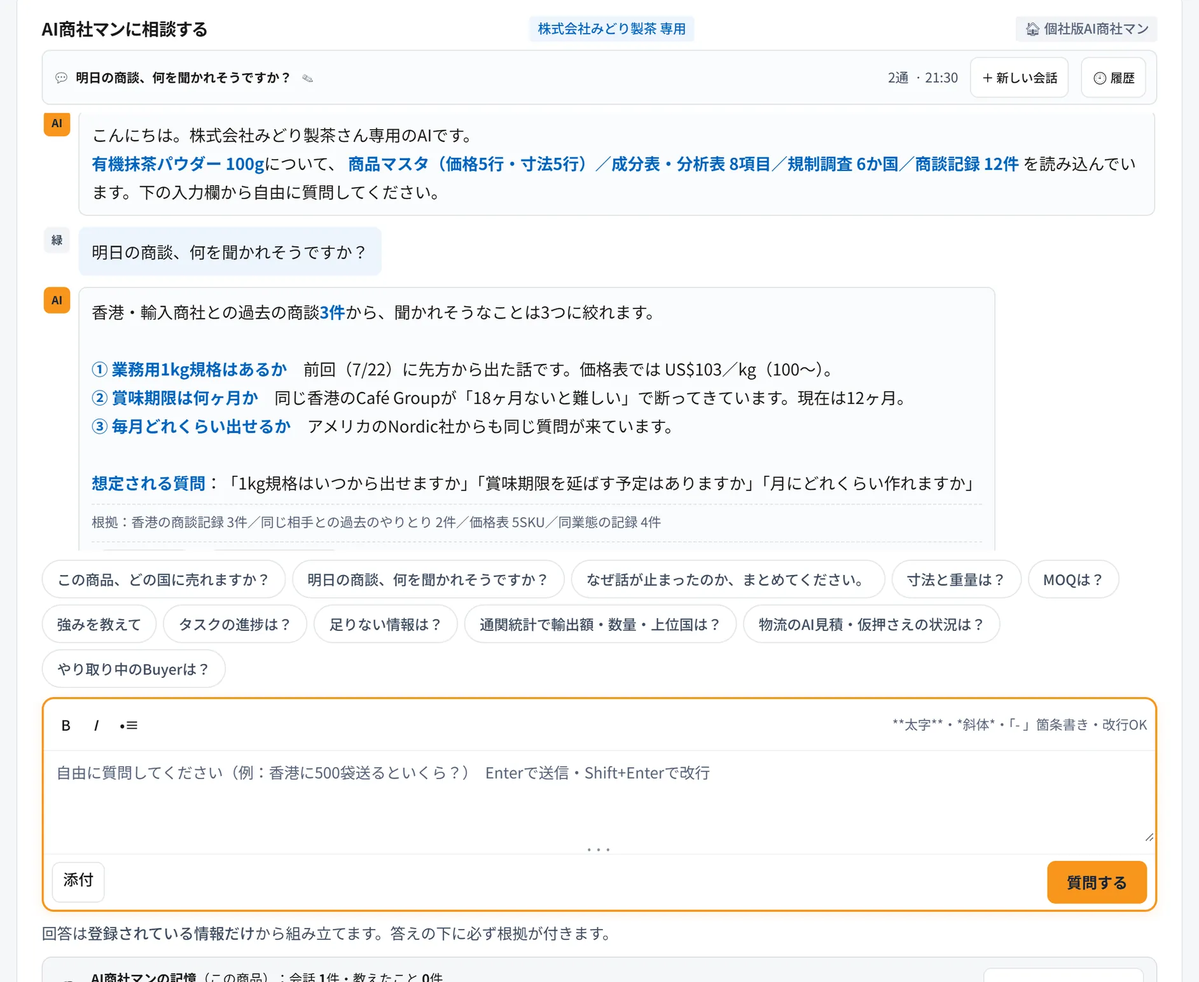
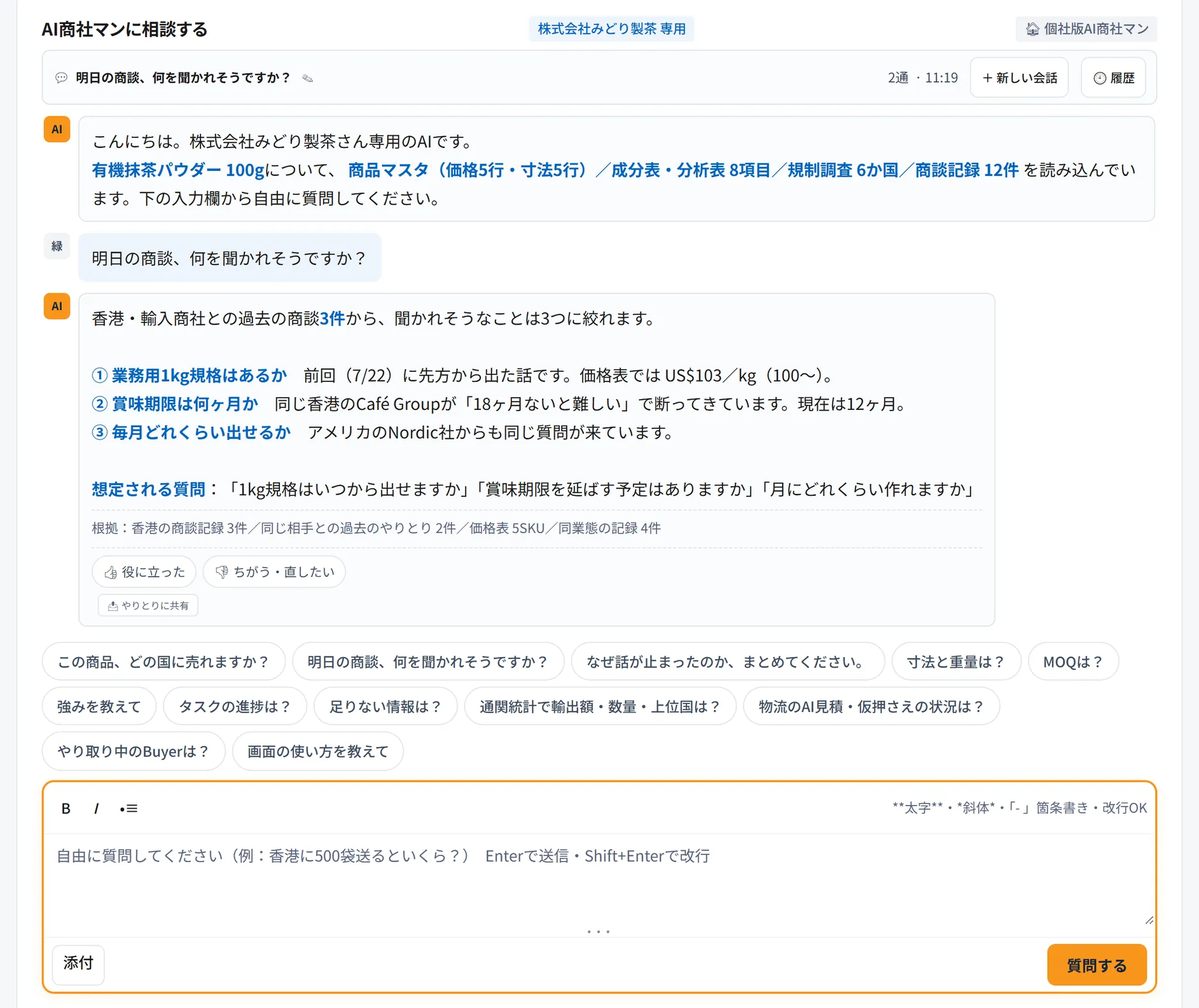
はじめてガイド（guide/）を Ver.3.8 に：AI商社マン・AI物流マンへの画面の使い方の聞き方を足した（アプリ本体は v21.50.1 のまま）

diff --git a/guide/index.html b/guide/index.html
@@ -1750,6 +1750,9 @@ button {
 .m-print .tv-view {
   background: #EEF2F7;
 }
+.m-print .tv-view {
+  contain: strict;
+}
 .m-print .tv-ring {
   display: none;
 }
@@ -4742,7 +4745,7 @@ button {
       <li data-k="1:1"><b>何でも検索（Ctrl+K）</b>：画面・商品・バイヤー・書類・タスクへ移動<span class="sc">画面2</span></li>
       <li data-k="0:6"><b>表示の言語</b>：日本語・English・中文・Español</li>
       <li data-k="2:1"><b>？（ヘルプ）</b>：画面の使い方・<b>お問い合わせ</b>・<b>📰 新機能と改善</b><span class="sc">画面3</span></li>
-      <li data-k="0:8"><b>右下の「AIに質問」</b>：どの画面からでもAI商社マンに聞けます</li>
+      <li data-k="0:8"><b>右下の「AIに質問」</b>：どの画面からでもAI商社マンに聞けます（画面の<b>使い方</b>も）</li>
     </ol>
     <div class="op-foot">
       <div class="op-box op-why"><span class="bi"><svg><use href="#i-target"/></svg></span><h4>覚えておくと</h4><p>🔔が鳴るのは承認・返信・期限切れなど急ぎのものだけ。ほかは<b>受信箱</b>の「今日のまとめ」に1日1回届きます。点線の下線の言葉と<b>状態の札</b>は、マウスを重ねると説明が出ます。</p></div>
@@ -4808,7 +4811,7 @@ button {
     <p class="op-lead">資料を入れるだけで、AIが中身を読み取って登録します。足りない情報は、AIが順に質問してきます（次のページ）。</p>
     <ol class="op-steps">
       <li data-k="1:1"><b>「新しい会社の商品を登録する」</b>を選択（同じ会社の別商品は「既存の会社に新しい商品を登録する」）<span class="sc">画面2</span></li>
-      <li data-k="0:2">資料を<b>ドラッグ＆ドロップ</b>。Google Drive・OneDriveは<b>URLを貼って「取り込む」</b></li>
+      <li data-k="0:2">資料を<b>ドラッグ＆ドロップ</b>。Googleドキュメント・スプレッドシート・スライドとOneDriveは<b>URLを貼って「取り込む」</b></li>
     </ol>
     <div class="feat">
       <span class="rib"><svg><use href="#i-spark"/></svg>注目の機能</span>
@@ -5337,7 +5340,7 @@ button {
   <div class="s-foot"><span class="src">画面は架空の会社「株式会社みどり製茶」の例です</span><span class="pg"></span></div>
 </section>
 <section class="slide op" id="s28" data-title="㉕ AI商社マンに聞く" data-sec="操作ガイド：AI商社マン・スマホ">
-  <div class="op-shot"><div class="tour" data-tour="sc_ai,sc_ai2" data-pip="rb" data-path="左メニュー › 自走する › <b>AI商社マン</b>（画面の右下の「AIに質問」からも）"></div></div>
+  <div class="op-shot"><div class="tour" data-tour="sc_ai,sc_aihow,sc_ai2" data-pip="tl,rb" data-path="ガイドバー › <b>AI商社マンに聞く</b>（画面の右下の「AIに質問」からも）"></div></div>
   <div class="op-side">
     <div class="op-eye"><b>25</b>操作ガイド</div>
     <h2 class="op-title">AI商社マンに聞く</h2>
@@ -5346,18 +5349,19 @@ button {
       <li data-k="0:1"><b>貴社専用（個社版）</b>のAIです。他社のデータは混ざりません</li>
       <li data-k="0:3">答えには<b>根拠</b>（何件の記録から出したか）が付きます</li>
       <li data-k="0:4">違っていたら<b>「👎 ちがう・直したい」</b>。正しい内容を教えると、次から優先して使います</li>
-      <li data-k="0:6">質問の例を押すか、入力欄から自由に質問。<b>ファイルを添付</b>しても聞けます</li>
-      <li data-k="0:7"><b>「＋ 新しい会話」</b>で話題を分け、<b>「履歴」</b>で前の会話の続きから聞けます</li>
-      <li data-k="1:1">AIの接続時は、文ごとに<b>根拠の番号</b>が付きます<span class="sc">画面2</span></li>
-      <li data-k="1:2">答えの下の<b>「調べた手順」</b>は畳んであります。開くか番号を押すと、番号ごとの出どころ（貴社の登録データ・公的データ など）が分かります</li>
-      <li data-k="1:3"><b>「✓ STANDAGE 確認済み」</b>はSTANDAGEが出典を確かめた知識。根拠が無ければ<b>「判断できません」</b>と答えます</li>
+      <li data-k="0:6">質問の例を押すか、自由に質問。<b>ファイルの添付</b>もできます</li>
+      <li data-k="0:7"><b>「＋ 新しい会話」</b>で話題を分け、<b>「履歴」</b>で続きから</li>
+      <li data-k="1:3"><b>画面の使い方</b>も聞けます（例：バイヤーを登録するには？／使い方を教えて）。ボタンで<b>その画面が開きます</b><span class="sc">画面2</span></li>
+      <li data-k="2:1">AIの接続時は、文ごとに<b>根拠の番号</b>が付きます<span class="sc">画面3</span></li>
+      <li data-k="2:2">番号を押すか<b>「調べた手順」</b>を開くと、出どころ（貴社の登録データ・公的データ など）が分かります</li>
+      <li data-k="2:3"><b>「✓ STANDAGE 確認済み」</b>はSTANDAGEが出典を確かめた知識。根拠が無ければ<b>「判断できません」</b>と答えます</li>
     </ol>
     <div class="op-foot">
       <div class="op-box op-out"><span class="bi"><svg><use href="#i-chat"/></svg></span><h4>できあがるもの</h4><p>根拠つきの回答（商談の準備・止まった理由・次の一手）</p></div>
       <div class="op-box op-why"><span class="bi"><svg><use href="#i-target"/></svg></span><h4>貿易の成功にどう効くか</h4><p>商談の前に「聞かれそうなこと」を準備でき、社内の誰でも同じ水準で答えられるようになります。</p></div>
     </div>
   </div>
-  <div class="s-foot"><span class="src">画面は架空の会社「株式会社みどり製茶」の例です。画面2の答えは、AI接続時の表示例です</span><span class="pg"></span></div>
+  <div class="s-foot"><span class="src">画面は架空の会社「株式会社みどり製茶」の例です。画面3の答えは、AI接続時の表示例です</span><span class="pg"></span></div>
 </section>
 <section class="slide op" id="s29" data-title="㉖ AI商社マンを育てる">
   <div class="op-shot"><div class="tour" data-tour="sc_grow" data-path="AI商社マン › <b>成長レベル</b>"></div></div>
@@ -5503,11 +5507,12 @@ button {
       <div class="qa"><button type="button" aria-expanded="false"><span class="q">Q</span><b>別のPCやスマホでも同じ内容が見られますか？</b><i></i></button><div class="a"><div><p>はい。同じアクセスコードで、PC・ブラウザ・スマホのどれからでも同じ内容が使えます。同時にログインできるのは<b>PC1台＋スマホ1台</b>までです。</p></div></div></div>
       <div class="qa"><button type="button" aria-expanded="false"><span class="q">Q</span><b>タブを閉じると、どうなりますか？</b><i></i></button><div class="a"><div><p>安全のため、<b>タブ（ブラウザ）を閉じるとログアウト</b>します。最後の操作から<b>3時間</b>たったときも自動でログアウトします（5分前にお知らせ）。もう一度ログインすると、<b>前回の画面</b>から始まります。</p></div></div></div>
       <div class="qa"><button type="button" aria-expanded="false"><span class="q">Q</span><b>入力した情報は、他社に見られませんか？</b><i></i></button><div class="a"><div><p>個社版のAI商社マンは、<b>貴社のデータだけ</b>を見ます（他社のデータは混ざりません）。商品データと書類は端末で暗号化してから保存・同期されます。やりとりは「社内のみ」「共有」、書類とメモは「自分だけ」も選べます。</p></div></div></div>
-      <div class="qa"><button type="button" aria-expanded="false"><span class="q">Q</span><b>資料が読み込めません</b><i></i></button><div class="a"><div><p>対応形式は Excel・CSV・Word・PowerPoint・PDF・画像（PNG/JPEG）・Zip です。Googleドキュメントなどは<b>URLから取り込めます</b>。PDF・画像の高精度な読み取りは、AI接続時に使えます。</p></div></div></div>
+      <div class="qa"><button type="button" aria-expanded="false"><span class="q">Q</span><b>資料が読み込めません</b><i></i></button><div class="a"><div><p>対応形式は Excel・CSV・Word・PowerPoint・PDF・画像（PNG/JPEG）・Zip です。Googleドキュメント・スプレッドシート・スライドとOneDriveは<b>URLから取り込めます</b>。Googleドライブのファイル・フォルダは、ダウンロードしてからアップロードしてください。PDF・画像の高精度な読み取りは、AI接続時に使えます。</p></div></div></div>
       <div class="qa"><button type="button" aria-expanded="false"><span class="q">Q</span><b>営業資料の作成ボタンが押せません（🔒）</b><i></i></button><div class="a"><div><p>納品レベルチェックの<b>必須項目</b>（ロゴ・会社概要・沿革・理念・写真3枚・連絡先など）がそろうと作れます（料金プランとは関係ありません）。「AI商社マンと埋める」から入力してください。<button type="button" data-go="s15">P.15</button></p></div></div></div>
       <div class="qa"><button type="button" aria-expanded="false"><span class="q">Q</span><b>登録した内容を直したい</b><i></i></button><div class="a"><div><p>商品情報の各カードの<b>✎</b>で直せます。AIの質問に答えている途中なら「商品名を〇〇に変更して」と入力してもかまいません。AIの答えが違うときは<b>👎</b>で正しい内容を教えてください。間違えて消したものは、<b>チーム › ゴミ箱</b>から30日以内なら元に戻せます。<button type="button" data-go="s27f">P.32</button></p></div></div></div>
       <div class="qa"><button type="button" aria-expanded="false"><span class="q">Q</span><b>海外拠点に頼むと、費用はかかりますか？</b><i></i></button><div class="a"><div><p><b>「つなぐ依頼」（STANDAGEがご紹介）は無料</b>です（1か月20件まで）。<b>現地の担当に商談まで任せる場合と「拠点に依頼」は別途費用</b>がかかります。依頼の前に、担当へご確認ください。</p></div></div></div>
       <div class="qa"><button type="button" aria-expanded="false"><span class="q">Q</span><b>画面の言葉が難しいです</b><i></i></button><div class="a"><div><p><b>点線の下線</b>が付いた言葉にマウスを重ねると、貿易用語の説明が出ます。表示の言語は、日本語・English・中文・Español から選べます。<button type="button" data-go="s05">用語集 P.05</button></p></div></div></div>
+      <div class="qa"><button type="button" aria-expanded="false"><span class="q">Q</span><b>操作のしかたが分かりません</b><i></i></button><div class="a"><div><p>見出しの横の<b>「使い方を見る」</b>で、このガイドのその画面の説明が開きます。<b>AI商社マン</b>に「バイヤーを登録するには？」のように聞くと、手順と、その画面を開くボタンで答えます（「使い方を教えて」で一覧）。<button type="button" data-go="s28">P.33</button></p></div></div></div>
       <div class="qa"><button type="button" aria-expanded="false"><span class="q">Q</span><b>何から手をつければいいか分かりません</b><i></i></button><div class="a"><div><p>まず<b>受信箱</b>を開くと、確認待ち・返事・期限の近いものが上から並びます。画面上部の<b>オレンジのバー</b>と「今日やること」も「次にやること」を教えてくれます。<button type="button" data-go="s08">30日の進め方 P.08</button></p></div></div></div>
       <div class="qa"><button type="button" aria-expanded="false"><span class="q">Q</span><b>書類やファイルはどこにありますか？</b><i></i></button><div class="a"><div><p><b>「ドキュメント」</b>に集まります。やりとり・商談記録・メモに付けたファイルも自動で並びます（1件<b>20MB</b>まで）。以前に添付したファイルは名前の記録だけが並びます。必要なものはアップロードし直してください。<button type="button" data-go="s21">P.21</button></p></div></div></div>
       <div class="qa"><button type="button" aria-expanded="false"><span class="q">Q</span><b>データを社外に持ち出せますか？</b><i></i></button><div class="a"><div><p>はい。ダッシュボードの<b>「その他の操作」→「データを持ち出す」</b>から、全データを Excel・JSON で書き出せます。バイヤー一覧や活動レポートも Excel にできます。<button type="button" data-go="s32">P.37</button></p></div></div></div>
@@ -5577,7 +5582,7 @@ button {
         window.parent.postMessage(Object.assign({ bc20guide: 'x' }, m), '*');
     }
     catch (e) { } }
-    const SCN = { "sc_login": { "src": "img/sc_login.webp?v=f41f860d", "w": 488, "h": 806.8, "spots": [{ "n": 1, "x": 51, "y": 390.3, "w": 386, "h": 50.1 }, { "n": 2, "x": 51, "y": 441.4, "w": 386, "h": 50.1 }, { "n": 3, "x": 51, "y": 495.5, "w": 386, "h": 49.8 }, { "n": 4, "x": 51, "y": 634.6, "w": 386, "h": 40 }] }, "sc_welcome": { "src": "img/sc_welcome.webp?v=697c2543", "w": 748, "h": 381.0, "spots": [{ "n": 1, "x": 45, "y": 111, "w": 216.7, "h": 169 }, { "n": 2, "x": 265.7, "y": 111, "w": 216.7, "h": 169 }, { "n": 3, "x": 486.3, "y": 111, "w": 216.7, "h": 169 }, { "n": 4, "x": 552, "y": 288, "w": 151, "h": 48 }] }, "sc_screen": { "src": "img/sc_screen.webp?v=d7c5970a", "w": 1440, "h": 900, "spots": [{ "n": 1, "x": -4, "y": -4, "w": 270, "h": 908 }, { "n": 2, "x": 312, "y": -2.5, "w": 587.8, "h": 51.9 }, { "n": 3, "x": 274, "y": 52, "w": 710.9, "h": 48 }, { "n": 4, "x": 1262, "y": 4.5, "w": 38, "h": 38 }, { "n": 5, "x": 901.8, "y": 0.6, "w": 177.2, "h": 45.8 }, { "n": 6, "x": 1081, "y": -0.5, "w": 99, "h": 48 }, { "n": 7, "x": 1182, "y": 4.5, "w": 78, "h": 38 }, { "n": 8, "x": 1284.5, "y": 824, "w": 137.5, "h": 56 }, { "n": 9, "x": 418.9, "y": 127.2, "w": 133, "h": 38 }] }, "sc_pal": { "src": "img/sc_pal.webp?v=c03b186f", "w": 668, "h": 329.1, "spots": [{ "n": 1, "x": 11, "y": 11, "w": 646, "h": 60.5 }, { "n": 2, "x": 11, "y": 277.5, "w": 646, "h": 40.5 }] }, "sc_help": { "src": "img/sc_help.webp?v=8bebecfa", "w": 560, "h": 875.5, "spots": [{ "n": 1, "x": 14, "y": 43.9, "w": 533, "h": 48 }, { "n": 2, "x": 28, "y": 730.2, "w": 505, "h": 48 }, { "n": 3, "x": 28, "y": 829.7, "w": 505, "h": 31.8 }] }, "sc_up": { "src": "img/sc_up.webp?v=62be84a1", "w": 1178, "h": 700, "spots": [{ "n": 1, "x": 37, "y": 232.1, "w": 1104, "h": 30.1 }, { "n": 2, "x": 37, "y": 295.5, "w": 1104, "h": 217.5 }, { "n": 3, "x": 37, "y": 517, "w": 1104, "h": 79.4 }, { "n": 4, "x": 527.4, "y": 29.5, "w": 136, "h": 49.8 }] }, "sc_upmodal": { "src": "img/sc_upmodal.webp?v=cc714e90", "w": 816, "h": 489.4, "spots": [{ "n": 1, "x": 34, "y": 100.7, "w": 248, "h": 223.3 }, { "n": 2, "x": 284, "y": 100.7, "w": 248, "h": 223.3 }, { "n": 3, "x": 534, "y": 100.7, "w": 248, "h": 223.3 }, { "n": 4, "x": 526, "y": 409.7, "w": 256, "h": 49.8 }] }, "sc_price": { "src": "img/sc_price.webp?v=3c41283e", "w": 1178, "h": 720.7, "spots": [{ "n": 1, "x": 252.5, "y": 12.6, "w": 269.5, "h": 49.8 }, { "n": 2, "x": 520, "y": 12.6, "w": 270, "h": 49.8 }, { "n": 3, "x": 38, "y": 523, "w": 1102, "h": 46.7 }] }, "sc_fob": { "src": "img/sc_fob.webp?v=84b53a48", "w": 720, "h": 936.3, "spots": [{ "n": 1, "x": 30, "y": 66, "w": 661, "h": 228.1 }, { "n": 2, "x": 250.3, "y": 66, "w": 220.3, "h": 228.1 }, { "n": 3, "x": 30, "y": 296.1, "w": 661, "h": 412.2 }, { "n": 4, "x": 30, "y": 869.5, "w": 151, "h": 49.8 }] }, "sc_ddp": { "src": "img/sc_ddp.webp?v=0a65a351", "w": 720, "h": 911.1, "spots": [{ "n": 1, "x": 17, "y": 79.1, "w": 687, "h": 158.3 }, { "n": 2, "x": 17, "y": 239.4, "w": 687, "h": 196.7 }, { "n": 3, "x": 30, "y": 476.3, "w": 661, "h": 366 }, { "n": 4, "x": 30, "y": 773.3, "w": 661, "h": 41.5 }, { "n": 5, "x": 17, "y": 857.3, "w": 526.6, "h": 49.8 }, { "n": 6, "x": 17, "y": 773.3, "w": 674, "h": 133.8 }] }, "sc_fill": { "src": "img/sc_fill.webp?v=0d23cf4b", "w": 1178, "h": 1010, "spots": [{ "n": 1, "x": 37, "y": 20, "w": 626.9, "h": 58.4 }, { "n": 2, "x": 39, "y": 523, "w": 1100, "h": 198.1 }, { "n": 3, "x": 39, "y": 782, "w": 1100, "h": 98 }, { "n": 4, "x": 935.4, "y": 890, "w": 195.6, "h": 49.8 }, { "n": 5, "x": 1054.7, "y": 286.1, "w": 86.3, "h": 32.8 }] }, "sc_item": { "src": "img/sc_item.webp?v=a15a768b", "w": 1178, "h": 965, "spots": [{ "n": 1, "x": 37, "y": 81.6, "w": 617.5, "h": 61.3 }, { "n": 2, "x": 37, "y": 145.9, "w": 1104, "h": 106.7 }, { "n": 3, "x": 830.6, "y": 302.7, "w": 310.4, "h": 49.8 }, { "n": 4, "x": 50, "y": 420.9, "w": 526, "h": 48 }] }, "sc_today": { "src": "img/sc_today.webp?v=6cf7aa28", "w": 1178, "h": 965, "spots": [{ "n": 1, "x": 37, "y": 81.4, "w": 456.9, "h": 59.4 }, { "n": 2, "x": 30, "y": 184, "w": 335.5, "h": 30.4 }, { "n": 3, "x": 58, "y": 273.2, "w": 309.6, "h": 48 }, { "n": 4, "x": 365.6, "y": 273.2, "w": 242, "h": 48 }, { "n": 5, "x": 30, "y": 319.2, "w": 1121, "h": 30.1 }] }, "sc_cty": { "src": "img/sc_cty.webp?v=a6357f30", "w": 1178, "h": 965, "spots": [{ "n": 1, "x": 850.1, "y": 6.8, "w": 315.9, "h": 49.8 }, { "n": 2, "x": 12, "y": 60.6, "w": 1154, "h": 316.1 }, { "n": 3, "x": 891.1, "y": 270.8, "w": 249.9, "h": 49.8 }, { "n": 4, "x": 12, "y": 384.7, "w": 1154, "h": 1200.5 }, { "n": 5, "x": 909.3, "y": 405.7, "w": 142.7, "h": 49.8 }] }, "sc_cty2": { "src": "img/sc_cty2.webp?v=ff879c30", "w": 1178, "h": 965, "spots": [{ "n": 1, "x": 37, "y": 20, "w": 444.6, "h": 49.8 }, { "n": 2, "x": 37, "y": 153.6, "w": 262.8, "h": 408.8 }, { "n": 3, "x": 299.8, "y": 153.6, "w": 262.8, "h": 408.8 }, { "n": 4, "x": 299.8, "y": 153.6, "w": 262.8, "h": 408.8 }, { "n": 5, "x": 37, "y": 563.3, "w": 525.5, "h": 71.5 }] }, "sc_reg": { "src": "img/sc_reg.webp?v=610f2ce0", "w": 1178, "h": 965, "spots": [{ "n": 1, "x": 12, "y": 60.4, "w": 245.3, "h": 78.3 }, { "n": 2, "x": 37, "y": 388.6, "w": 381, "h": 51 }, { "n": 3, "x": 48, "y": 442.6, "w": 1093, "h": 82.7 }, { "n": 4, "x": 37, "y": 528.3, "w": 1104, "h": 61.6 }, { "n": 5, "x": 37, "y": 591.9, "w": 1104, "h": 51.8 }, { "n": 6, "x": 37, "y": 646.7, "w": 233, "h": 49.8 }] }, "sc_deck": { "src": "img/sc_deck.webp?v=8be3fb68", "w": 1178, "h": 965, "spots": [{ "n": 1, "x": 849, "y": 6.8, "w": 317, "h": 49.8 }, { "n": 2, "x": 37, "y": 81.6, "w": 1104, "h": 32.8 }, { "n": 3, "x": 37, "y": 172.9, "w": 305.3, "h": 49.8 }, { "n": 4, "x": 354, "y": 269.5, "w": 224, "h": 103.1 }] }, "sc_deck2": { "src": "img/sc_deck2.webp?v=8292b6ad", "w": 1178, "h": 965, "spots": [{ "n": 1, "x": 37, "y": 94.2, "w": 276, "h": 125.9 }, { "n": 2, "x": 37, "y": 389.5, "w": 220.8, "h": 120.6 }, { "n": 3, "x": 12, "y": 233.1, "w": 1154, "h": 298 }, { "n": 4, "x": 12, "y": 523.1, "w": 1154, "h": 191.2 }] }, "sc_db": { "src": "img/sc_db.webp?v=2a578eb7", "w": 1178, "h": 870, "spots": [{ "n": 1, "x": 12, "y": 4, "w": 1154, "h": 207.6 }, { "n": 2, "x": 37, "y": 384.8, "w": 582, "h": 51 }, { "n": 3, "x": 38, "y": 508.1, "w": 415.9, "h": 64.5 }, { "n": 4, "x": 1034, "y": 519.4, "w": 94, "h": 42 }, { "n": 5, "x": 809, "y": 142.6, "w": 72.7, "h": 48 }, { "n": 6, "x": 14, "y": 213.6, "w": 1150, "h": 54.8 }] }, "sc_cn": { "src": "img/sc_cn.webp?v=ee61c1cd", "w": 920, "h": 630.2, "spots": [{ "n": 1, "x": 14, "y": 37.9, "w": 893, "h": 59 }, { "n": 2, "x": 14, "y": 100.9, "w": 893, "h": 86.3 }, { "n": 3, "x": 14, "y": 221, "w": 893, "h": 44.1 }, { "n": 4, "x": 14, "y": 292.9, "w": 893, "h": 127 }, { "n": 5, "x": 14, "y": 463.4, "w": 893, "h": 32 }, { "n": 6, "x": 14, "y": 501.4, "w": 166, "h": 49.8 }] }, "sc_cnst": { "src": "img/sc_cnst.webp?v=f051fc74", "w": 1178, "h": 300, "spots": [{ "n": 1, "x": 583.2, "y": 109, "w": 397, "h": 27.4 }, { "n": 2, "x": 998, "y": 101.7, "w": 130, "h": 42 }, { "n": 3, "x": 583.2, "y": 165.5, "w": 397, "h": 27.4 }] }, "sc_b30": { "src": "img/sc_b30.webp?v=a2731489", "w": 1178, "h": 1100, "spots": [{ "n": 1, "x": 12, "y": 60.6, "w": 1154, "h": 61.4 }, { "n": 2, "x": 37, "y": 230.9, "w": 169, "h": 49.8 }, { "n": 3, "x": 204, "y": 230.9, "w": 306.1, "h": 49.8 }, { "n": 4, "x": 508.1, "y": 230.9, "w": 106, "h": 49.8 }, { "n": 5, "x": 37, "y": 282.7, "w": 1104, "h": 40.1 }, { "n": 6, "x": 37, "y": 364.8, "w": 1104, "h": 53.5 }, { "n": 7, "x": 1018.7, "y": 366.6, "w": 122.3, "h": 49.8 }, { "n": 8, "x": 38, "y": 536.8, "w": 1102, "h": 86.5 }, { "n": 9, "x": 37, "y": 324.8, "w": 1104, "h": 40 }] }, "sc_b30d": { "src": "img/sc_b30d.webp?v=72ac1977", "w": 720, "h": 982.9, "spots": [{ "n": 1, "x": 51, "y": 11, "w": 566, "h": 188.8 }, { "n": 2, "x": 14, "y": 201.8, "w": 693, "h": 51 }, { "n": 3, "x": 494, "y": 203.3, "w": 103.2, "h": 48 }, { "n": 4, "x": 14, "y": 256.8, "w": 693, "h": 47.8 }, { "n": 5, "x": -4, "y": -4, "w": 728, "h": 1208 }, { "n": 6, "x": 14, "y": 915.2, "w": 574.1, "h": 49.8 }] }, "sc_b30log": { "src": "img/sc_b30log.webp?v=14780a2c", "w": 720, "h": 732.4, "spots": [{ "n": 1, "x": 25, "y": 317.6, "w": 671, "h": 55.5 }, { "n": 2, "x": 25, "y": 371.1, "w": 671, "h": 80 }, { "n": 3, "x": 590, "y": 459.1, "w": 106, "h": 49.8 }, { "n": 4, "x": 14, "y": 519.9, "w": 693, "h": 194.6 }] }, "sc_deal": { "src": "img/sc_deal.webp?v=581ce919", "w": 1178, "h": 1150, "spots": [{ "n": 1, "x": 461.8, "y": 6.8, "w": 169.4, "h": 49.8 }, { "n": 2, "x": 588, "y": 60.6, "w": 578, "h": 61.4 }, { "n": 3, "x": 279.7, "y": 147, "w": 190.7, "h": 48 }, { "n": 4, "x": 694, "y": 159.2, "w": 447, "h": 51 }, { "n": 5, "x": 38, "y": 340.8, "w": 1102, "h": 87.8 }, { "n": 6, "x": 12, "y": 641.5, "w": 1154, "h": 245.6 }, { "n": 7, "x": 1000, "y": 6.8, "w": 166, "h": 49.8 }] }, "sc_dealform": { "src": "img/sc_dealform.webp?v=1d121c7c", "w": 920, "h": 1298.3, "spots": [{ "n": 1, "x": 14, "y": 96.9, "w": 893, "h": 239 }, { "n": 2, "x": 14, "y": 725, "w": 893, "h": 85.8 }, { "n": 3, "x": 14, "y": 882.9, "w": 893, "h": 153.1 }, { "n": 4, "x": 14, "y": 1230.5, "w": 106, "h": 49.8 }] }, "sc_fbc": { "src": "img/sc_fbc.webp?v=f7a2b9d4", "w": 720, "h": 1069.5, "spots": [{ "n": 1, "x": 27, "y": 565.8, "w": 667, "h": 48 }, { "n": 2, "x": 14, "y": 768.8, "w": 693, "h": 282.7 }, { "n": 3, "x": 27, "y": 837.1, "w": 667, "h": 70.2 }, { "n": 4, "x": 558, "y": 990.8, "w": 136, "h": 49.8 }] }, "sc_ship": { "src": "img/sc_ship.webp?v=448318bb", "w": 1178, "h": 1500, "spots": [{ "n": 1, "x": 65.7, "y": 80, "w": 189.8, "h": 48 }, { "n": 2, "x": 12, "y": 146, "w": 1154, "h": 370.3 }, { "n": 7, "x": 173, "y": 293.8, "w": 205.3, "h": 29.5 }, { "n": 3, "x": 73, "y": 849.1, "w": 1066, "h": 160.5 }, { "n": 4, "x": 54, "y": 1675.2, "w": 1087, "h": 249.7 }, { "n": 5, "x": 37, "y": 1017.1, "w": 232.5, "h": 49.8 }, { "n": 6, "x": 37, "y": 1283.6, "w": 1104, "h": 46.3 }] }, "sc_ship4": { "src": "img/sc_ship4.webp?v=c47dd85b", "w": 1178, "h": 740.5, "spots": [{ "n": 1, "x": 67, "y": 402.7, "w": 530.5, "h": 229.8 }, { "n": 2, "x": 67, "y": 632.5, "w": 338, "h": 48 }] }, "sc_legal": { "src": "img/sc_legal.webp?v=9e45ae30", "w": 1178, "h": 965, "spots": [{ "n": 1, "x": 12, "y": 60.4, "w": 1154, "h": 329.9 }, { "n": 2, "x": 12, "y": 393.3, "w": 573, "h": 265.4 }, { "n": 3, "x": 618, "y": 476.5, "w": 523, "h": 124 }, { "n": 4, "x": 12, "y": 705.8, "w": 1154, "h": 33.5 }] }, "sc_docs": { "src": "img/sc_docs.webp?v=7e7db2b2", "w": 1178, "h": 1000, "spots": [{ "n": 1, "x": 743, "y": 6.8, "w": 136, "h": 49.8 }, { "n": 2, "x": 879, "y": 6.8, "w": 136, "h": 49.8 }, { "n": 3, "x": 1015, "y": 6.8, "w": 151, "h": 49.8 }, { "n": 4, "x": 37, "y": 133.3, "w": 1104, "h": 57.8 }, { "n": 5, "x": 37, "y": 193.1, "w": 1104, "h": 53.5 }, { "n": 6, "x": 38, "y": 460.1, "w": 1102, "h": 67 }, { "n": 7, "x": 825, "y": 81.6, "w": 316, "h": 49.8 }] }, "sc_docreq": { "src": "img/sc_docreq.webp?v=8a6c0aa8", "w": 640, "h": 547.2, "spots": [{ "n": 1, "x": 14, "y": 124.4, "w": 613, "h": 53.5 }, { "n": 2, "x": 74, "y": 177.9, "w": 340, "h": 109 }, { "n": 3, "x": 14, "y": 312.7, "w": 613, "h": 111.2 }, { "n": 4, "x": 14, "y": 479.4, "w": 106, "h": 49.8 }] }, "sc_docreq2": { "src": "img/sc_docreq2.webp?v=ffd2363e", "w": 1178, "h": 760, "spots": [{ "n": 1, "x": 49, "y": 141.3, "w": 1080, "h": 33.5 }, { "n": 2, "x": 49, "y": 172.8, "w": 1080, "h": 14 }, { "n": 3, "x": 49, "y": 228.8, "w": 1080, "h": 32.4 }, { "n": 4, "x": 124.8, "y": 184.8, "w": 206, "h": 48 }, { "n": 5, "x": 49, "y": 303.2, "w": 103.2, "h": 48 }] }, "sc_msg": { "src": "img/sc_msg.webp?v=f8a32e73", "w": 1170, "h": 1025.2, "spots": [{ "n": 1, "x": 33, "y": 64.7, "w": 458.6, "h": 49.8 }, { "n": 2, "x": 46, "y": 353.5, "w": 1072, "h": 48.8 }, { "n": 3, "x": 891.3, "y": 662.5, "w": 226.7, "h": 40 }, { "n": 4, "x": 35, "y": 758.1, "w": 1100, "h": 47 }, { "n": 5, "x": 35, "y": 797.1, "w": 1100, "h": 61 }, { "n": 6, "x": 1052, "y": 803.1, "w": 73, "h": 48 }, { "n": 7, "x": 1049, "y": 976.5, "w": 76, "h": 49.8 }] }, "sc_team": { "src": "img/sc_team.webp?v=30bcd983", "w": 1178, "h": 965, "spots": [{ "n": 1, "x": 996.6, "y": 11.3, "w": 169.4, "h": 49.8 }, { "n": 2, "x": 925, "y": 86.1, "w": 216, "h": 32.8 }, { "n": 3, "x": 37, "y": 230.5, "w": 1104, "h": 340.9 }, { "n": 4, "x": 143, "y": 122.9, "w": 122.9, "h": 48.1 }, { "n": 5, "x": 12, "y": 584.4, "w": 1154, "h": 105.2 }] }, "sc_invite": { "src": "img/sc_invite.webp?v=957d8dae", "w": 440, "h": 900.3, "spots": [{ "n": 1, "x": 14, "y": 198.3, "w": 413, "h": 53.5 }, { "n": 2, "x": 14, "y": 354.9, "w": 413, "h": 53.5 }, { "n": 3, "x": 54.7, "y": 451.2, "w": 361.3, "h": 147.5 }, { "n": 4, "x": 59, "y": 650.5, "w": 218, "h": 167 }, { "n": 5, "x": 14, "y": 832.5, "w": 106, "h": 49.8 }] }, "sc_task": { "src": "img/sc_task.webp?v=88038dad", "w": 1178, "h": 965, "spots": [{ "n": 1, "x": 754.1, "y": 6.8, "w": 124.4, "h": 49.8 }, { "n": 2, "x": 878.5, "y": 6.8, "w": 136, "h": 49.8 }, { "n": 3, "x": 1014.5, "y": 7.7, "w": 151.5, "h": 48 }, { "n": 4, "x": 12, "y": 60.6, "w": 573, "h": 170 }, { "n": 5, "x": 170.7, "y": 396, "w": 159.6, "h": 49.8 }, { "n": 6, "x": 38, "y": 550.4, "w": 1102, "h": 70.8 }] }, "sc_taskd": { "src": "img/sc_taskd.webp?v=59f79026", "w": 720, "h": 1042.8, "spots": [{ "n": 1, "x": 14, "y": 71.4, "w": 693, "h": 49.8 }, { "n": 2, "x": 361.5, "y": 201.8, "w": 345.5, "h": 159.2 }, { "n": 3, "x": 120, "y": 558.2, "w": 121, "h": 49.8 }, { "n": 4, "x": 14, "y": 613.9, "w": 693, "h": 185.9 }, { "n": 5, "x": 14, "y": 808.7, "w": 693, "h": 216 }] }, "sc_tl": { "src": "img/sc_tl.webp?v=3ea87885", "w": 585, "h": 627.6, "spots": [{ "n": 1, "x": 6, "y": 6, "w": 573, "h": 615.6 }] }, "sc_memo": { "src": "img/sc_memo.webp?v=b35aca0d", "w": 1178, "h": 1400, "spots": [{ "n": 1, "x": 1026.6, "y": 6.8, "w": 139.4, "h": 49.8 }, { "n": 2, "x": 12, "y": 60.6, "w": 1154, "h": 82.3 }, { "n": 3, "x": 37, "y": 273.9, "w": 435.6, "h": 48 }, { "n": 4, "x": 618, "y": 505.3, "w": 380, "h": 48 }, { "n": 5, "x": 618, "y": 567.3, "w": 241.9, "h": 32 }, { "n": 6, "x": 841, "y": 637.6, "w": 203, "h": 49.8 }, { "n": 7, "x": 618, "y": 689.3, "w": 523, "h": 476.9 }] }, "sc_mtg": { "src": "img/sc_mtg.webp?v=604c72c8", "w": 640, "h": 557.1, "spots": [{ "n": 1, "x": 14, "y": 124, "w": 613, "h": 53.5 }, { "n": 2, "x": 14, "y": 202.6, "w": 613, "h": 55.5 }, { "n": 3, "x": 14, "y": 283.2, "w": 613, "h": 53.5 }, { "n": 4, "x": 14, "y": 361.8, "w": 613, "h": 77.5 }, { "n": 5, "x": 14, "y": 453.3, "w": 613, "h": 32 }, { "n": 6, "x": 14, "y": 489.3, "w": 106, "h": 49.8 }] }, "sc_dash": { "src": "img/sc_dash.webp?v=8ceb5319", "w": 1178, "h": 1450, "spots": [{ "n": 1, "x": 457.5, "y": 10, "w": 421, "h": 49.8 }, { "n": 6, "x": 12, "y": 63.8, "w": 1154, "h": 202.2 }, { "n": 3, "x": 12, "y": 1055, "w": 1154, "h": 76.3 }, { "n": 4, "x": 12, "y": 1133.4, "w": 1154, "h": 243 }, { "n": 5, "x": 1014.5, "y": 10.9, "w": 151.5, "h": 48 }, { "n": 8, "x": 12, "y": 604, "w": 1154, "h": 443 }, { "n": 9, "x": 12, "y": 257.9, "w": 1154, "h": 208.6 }] }, "sc_dash2": { "src": "img/sc_dash2.webp?v=e21d07ad", "w": 1178, "h": 760, "spots": [{ "n": 1, "x": 29, "y": 16, "w": 1120, "h": 97.1 }, { "n": 2, "x": 12, "y": 234.1, "w": 230, "h": 236.9 }] }, "sc_rep": { "src": "img/sc_rep.webp?v=e276ffd6", "w": 940, "h": 1190.5, "spots": [{ "n": 1, "x": 14, "y": 71.4, "w": 913, "h": 48 }, { "n": 2, "x": 14, "y": 150.9, "w": 913, "h": 142.6 }, { "n": 3, "x": 14, "y": 327, "w": 166, "h": 49.8 }, { "n": 4, "x": 178, "y": 327, "w": 274.8, "h": 49.8 }, { "n": 5, "x": 450.8, "y": 327, "w": 136, "h": 49.8 }, { "n": 6, "x": 14, "y": 409, "w": 913, "h": 348 }] }, "sc_week": { "src": "img/sc_week.webp?v=006a36fd", "w": 760, "h": 702.7, "spots": [{ "n": 1, "x": 14, "y": 96.9, "w": 733, "h": 528 }, { "n": 2, "x": 14, "y": 634.9, "w": 110.4, "h": 49.8 }, { "n": 3, "x": 124.4, "y": 634.9, "w": 181, "h": 49.8 }] }, "sc_inbox": { "src": "img/sc_inbox.webp?v=be801360", "w": 1178, "h": 1194.6, "spots": [{ "n": 1, "x": 37, "y": 330.7, "w": 362.7, "h": 788.9 }, { "n": 2, "x": 407.7, "y": 330.7, "w": 362.7, "h": 227.7 }, { "n": 3, "x": 778.3, "y": 330.7, "w": 362.7, "h": 227.7 }, { "n": 4, "x": 37, "y": 275.2, "w": 1104, "h": 53.5 }, { "n": 5, "x": 12, "y": 60.4, "w": 1154, "h": 189.8 }] }, "sc_aq": { "src": "img/sc_aq.webp?v=1fc4630c", "w": 820, "h": 860, "spots": [{ "n": 1, "x": 42, "y": 241.9, "w": 736, "h": 70.3 }, { "n": 2, "x": 42, "y": 346, "w": 736, "h": 49.8 }, { "n": 3, "x": 573.1, "y": 121.5, "w": 219.9, "h": 49.8 }] }, "sc_ckmail": { "src": "img/sc_ckmail.webp?v=9facff59", "w": 440, "h": 1077.8, "spots": [{ "n": 1, "x": 14, "y": 875.7, "w": 413, "h": 97.5 }] }, "sc_ck": { "src": "img/sc_ck.webp?v=d1f47bac", "w": 560, "h": 839.5, "spots": [{ "n": 1, "x": 14, "y": 69, "w": 532, "h": 31.8 }, { "n": 2, "x": 14, "y": 157.8, "w": 532, "h": 129.6 }, { "n": 3, "x": 14, "y": 287.4, "w": 532, "h": 129.6 }, { "n": 4, "x": 14, "y": 650.7, "w": 532, "h": 104.1 }] }, "sc_rqform": { "src": "img/sc_rqform.webp?v=006c6d5b", "w": 820, "h": 860, "spots": [{ "n": 1, "x": 14, "y": 69, "w": 792, "h": 87.7 }, { "n": 2, "x": 14, "y": 346.5, "w": 792, "h": 53.5 }, { "n": 3, "x": 27, "y": 435.8, "w": 766, "h": 152 }, { "n": 4, "x": 670, "y": 802.3, "w": 136, "h": 49.8 }] }, "sc_rqpage": { "src": "img/sc_rqpage.webp?v=4216dde6", "w": 820, "h": 860, "spots": [{ "n": 1, "x": 89, "y": 213.4, "w": 642, "h": 30 }, { "n": 2, "x": 89, "y": 573.1, "w": 642, "h": 116.1 }, { "n": 3, "x": 67, "y": 731.9, "w": 686, "h": 132.1 }] }, "sc_rq": { "src": "img/sc_rq.webp?v=75886bfc", "w": 1178, "h": 329.3, "spots": [{ "n": 1, "x": 37, "y": 139.1, "w": 1104, "h": 78.6 }, { "n": 2, "x": 1031, "y": 223.7, "w": 106, "h": 49.8 }] }, "sc_gl": { "src": "img/sc_gl.webp?v=511610a4", "w": 1178, "h": 709.6, "spots": [{ "n": 1, "x": 37, "y": 107.5, "w": 1104, "h": 51.5 }, { "n": 2, "x": 37, "y": 185.1, "w": 662.4, "h": 51.5 }, { "n": 3, "x": 699.4, "y": 159, "w": 220.8, "h": 77.6 }, { "n": 4, "x": 37, "y": 295.3, "w": 1104, "h": 33.5 }, { "n": 5, "x": 37, "y": 368.6, "w": 1104, "h": 300 }] }, "sc_trash": { "src": "img/sc_trash.webp?v=8c3f1104", "w": 1178, "h": 308.2, "spots": [{ "n": 1, "x": 910, "y": 150.8, "w": 106, "h": 49.8 }, { "n": 2, "x": 137.1, "y": 81.4, "w": 119.1, "h": 52.5 }, { "n": 3, "x": 252.2, "y": 81.4, "w": 134.1, "h": 52.5 }, { "n": 4, "x": 1016, "y": 150.8, "w": 121, "h": 49.8 }] }, "sc_ai": { "src": "img/sc_ai.webp?v=5021daaf", "w": 1178, "h": 965, "spots": [{ "n": 1, "x": 994.5, "y": 12, "w": 146.5, "h": 32.8 }, { "n": 2, "x": 39, "y": 277.8, "w": 1100, "h": 336.3 }, { "n": 3, "x": 86, "y": 490.8, "w": 882.5, "h": 37.8 }, { "n": 4, "x": 86, "y": 528.6, "w": 882.5, "h": 47.9 }, { "n": 5, "x": 37, "y": 545.8, "w": 1104, "h": 134.9 }, { "n": 6, "x": 39, "y": 835.7, "w": 1100, "h": 62.8 }, { "n": 7, "x": 949.4, "y": 51.8, "w": 180.6, "h": 48 }] }, "sc_ai2": { "src": "img/sc_ai2.webp?v=eca1e309", "w": 1178, "h": 906.6, "spots": [{ "n": 1, "x": 652.4, "y": 371.8, "w": 31, "h": 26 }, { "n": 2, "x": 86, "y": 573.9, "w": 150.6, "h": 38 }, { "n": 3, "x": 86, "y": 714.4, "w": 1040, "h": 32.5 }] }, "sc_grow": { "src": "img/sc_grow.webp?v=aa6fa5b4", "w": 1178, "h": 700, "spots": [{ "n": 1, "x": 62, "y": 101.4, "w": 496, "h": 409.5 }, { "n": 2, "x": 62, "y": 525, "w": 496, "h": 94.1 }, { "n": 3, "x": 62, "y": 429.4, "w": 496, "h": 81.5 }, { "n": 4, "x": 595, "y": 76.4, "w": 546, "h": 35.2 }, { "n": 5, "x": 12, "y": -9, "w": 1154, "h": 865 }] } };
+    const SCN = { "sc_login": { "src": "img/sc_login.webp?v=f41f860d", "w": 488, "h": 806.8, "spots": [{ "n": 1, "x": 51, "y": 390.3, "w": 386, "h": 50.1 }, { "n": 2, "x": 51, "y": 441.4, "w": 386, "h": 50.1 }, { "n": 3, "x": 51, "y": 495.5, "w": 386, "h": 49.8 }, { "n": 4, "x": 51, "y": 634.6, "w": 386, "h": 40 }] }, "sc_welcome": { "src": "img/sc_welcome.webp?v=697c2543", "w": 748, "h": 381.0, "spots": [{ "n": 1, "x": 45, "y": 111, "w": 216.7, "h": 169 }, { "n": 2, "x": 265.7, "y": 111, "w": 216.7, "h": 169 }, { "n": 3, "x": 486.3, "y": 111, "w": 216.7, "h": 169 }, { "n": 4, "x": 552, "y": 288, "w": 151, "h": 48 }] }, "sc_screen": { "src": "img/sc_screen.webp?v=d7c5970a", "w": 1440, "h": 900, "spots": [{ "n": 1, "x": -4, "y": -4, "w": 270, "h": 908 }, { "n": 2, "x": 312, "y": -2.5, "w": 587.8, "h": 51.9 }, { "n": 3, "x": 274, "y": 52, "w": 710.9, "h": 48 }, { "n": 4, "x": 1262, "y": 4.5, "w": 38, "h": 38 }, { "n": 5, "x": 901.8, "y": 0.6, "w": 177.2, "h": 45.8 }, { "n": 6, "x": 1081, "y": -0.5, "w": 99, "h": 48 }, { "n": 7, "x": 1182, "y": 4.5, "w": 78, "h": 38 }, { "n": 8, "x": 1284.5, "y": 824, "w": 137.5, "h": 56 }, { "n": 9, "x": 418.9, "y": 127.2, "w": 133, "h": 38 }] }, "sc_pal": { "src": "img/sc_pal.webp?v=c03b186f", "w": 668, "h": 329.1, "spots": [{ "n": 1, "x": 11, "y": 11, "w": 646, "h": 60.5 }, { "n": 2, "x": 11, "y": 277.5, "w": 646, "h": 40.5 }] }, "sc_help": { "src": "img/sc_help.webp?v=8bebecfa", "w": 560, "h": 875.5, "spots": [{ "n": 1, "x": 14, "y": 43.9, "w": 533, "h": 48 }, { "n": 2, "x": 28, "y": 730.2, "w": 505, "h": 48 }, { "n": 3, "x": 28, "y": 829.7, "w": 505, "h": 31.8 }] }, "sc_up": { "src": "img/sc_up.webp?v=62be84a1", "w": 1178, "h": 700, "spots": [{ "n": 1, "x": 37, "y": 232.1, "w": 1104, "h": 30.1 }, { "n": 2, "x": 37, "y": 295.5, "w": 1104, "h": 217.5 }, { "n": 3, "x": 37, "y": 517, "w": 1104, "h": 79.4 }, { "n": 4, "x": 527.4, "y": 29.5, "w": 136, "h": 49.8 }] }, "sc_upmodal": { "src": "img/sc_upmodal.webp?v=cc714e90", "w": 816, "h": 489.4, "spots": [{ "n": 1, "x": 34, "y": 100.7, "w": 248, "h": 223.3 }, { "n": 2, "x": 284, "y": 100.7, "w": 248, "h": 223.3 }, { "n": 3, "x": 534, "y": 100.7, "w": 248, "h": 223.3 }, { "n": 4, "x": 526, "y": 409.7, "w": 256, "h": 49.8 }] }, "sc_price": { "src": "img/sc_price.webp?v=3c41283e", "w": 1178, "h": 720.7, "spots": [{ "n": 1, "x": 252.5, "y": 12.6, "w": 269.5, "h": 49.8 }, { "n": 2, "x": 520, "y": 12.6, "w": 270, "h": 49.8 }, { "n": 3, "x": 38, "y": 523, "w": 1102, "h": 46.7 }] }, "sc_fob": { "src": "img/sc_fob.webp?v=84b53a48", "w": 720, "h": 936.3, "spots": [{ "n": 1, "x": 30, "y": 66, "w": 661, "h": 228.1 }, { "n": 2, "x": 250.3, "y": 66, "w": 220.3, "h": 228.1 }, { "n": 3, "x": 30, "y": 296.1, "w": 661, "h": 412.2 }, { "n": 4, "x": 30, "y": 869.5, "w": 151, "h": 49.8 }] }, "sc_ddp": { "src": "img/sc_ddp.webp?v=0a65a351", "w": 720, "h": 911.1, "spots": [{ "n": 1, "x": 17, "y": 79.1, "w": 687, "h": 158.3 }, { "n": 2, "x": 17, "y": 239.4, "w": 687, "h": 196.7 }, { "n": 3, "x": 30, "y": 476.3, "w": 661, "h": 366 }, { "n": 4, "x": 30, "y": 773.3, "w": 661, "h": 41.5 }, { "n": 5, "x": 17, "y": 857.3, "w": 526.6, "h": 49.8 }, { "n": 6, "x": 17, "y": 773.3, "w": 674, "h": 133.8 }] }, "sc_fill": { "src": "img/sc_fill.webp?v=0d23cf4b", "w": 1178, "h": 1010, "spots": [{ "n": 1, "x": 37, "y": 20, "w": 626.9, "h": 58.4 }, { "n": 2, "x": 39, "y": 523, "w": 1100, "h": 198.1 }, { "n": 3, "x": 39, "y": 782, "w": 1100, "h": 98 }, { "n": 4, "x": 935.4, "y": 890, "w": 195.6, "h": 49.8 }, { "n": 5, "x": 1054.7, "y": 286.1, "w": 86.3, "h": 32.8 }] }, "sc_item": { "src": "img/sc_item.webp?v=a15a768b", "w": 1178, "h": 965, "spots": [{ "n": 1, "x": 37, "y": 81.6, "w": 617.5, "h": 61.3 }, { "n": 2, "x": 37, "y": 145.9, "w": 1104, "h": 106.7 }, { "n": 3, "x": 830.6, "y": 302.7, "w": 310.4, "h": 49.8 }, { "n": 4, "x": 50, "y": 420.9, "w": 526, "h": 48 }] }, "sc_today": { "src": "img/sc_today.webp?v=6cf7aa28", "w": 1178, "h": 965, "spots": [{ "n": 1, "x": 37, "y": 81.4, "w": 456.9, "h": 59.4 }, { "n": 2, "x": 30, "y": 184, "w": 335.5, "h": 30.4 }, { "n": 3, "x": 58, "y": 273.2, "w": 309.6, "h": 48 }, { "n": 4, "x": 365.6, "y": 273.2, "w": 242, "h": 48 }, { "n": 5, "x": 30, "y": 319.2, "w": 1121, "h": 30.1 }] }, "sc_cty": { "src": "img/sc_cty.webp?v=a6357f30", "w": 1178, "h": 965, "spots": [{ "n": 1, "x": 850.1, "y": 6.8, "w": 315.9, "h": 49.8 }, { "n": 2, "x": 12, "y": 60.6, "w": 1154, "h": 316.1 }, { "n": 3, "x": 891.1, "y": 270.8, "w": 249.9, "h": 49.8 }, { "n": 4, "x": 12, "y": 384.7, "w": 1154, "h": 1200.5 }, { "n": 5, "x": 909.3, "y": 405.7, "w": 142.7, "h": 49.8 }] }, "sc_cty2": { "src": "img/sc_cty2.webp?v=ff879c30", "w": 1178, "h": 965, "spots": [{ "n": 1, "x": 37, "y": 20, "w": 444.6, "h": 49.8 }, { "n": 2, "x": 37, "y": 153.6, "w": 262.8, "h": 408.8 }, { "n": 3, "x": 299.8, "y": 153.6, "w": 262.8, "h": 408.8 }, { "n": 4, "x": 299.8, "y": 153.6, "w": 262.8, "h": 408.8 }, { "n": 5, "x": 37, "y": 563.3, "w": 525.5, "h": 71.5 }] }, "sc_reg": { "src": "img/sc_reg.webp?v=610f2ce0", "w": 1178, "h": 965, "spots": [{ "n": 1, "x": 12, "y": 60.4, "w": 245.3, "h": 78.3 }, { "n": 2, "x": 37, "y": 388.6, "w": 381, "h": 51 }, { "n": 3, "x": 48, "y": 442.6, "w": 1093, "h": 82.7 }, { "n": 4, "x": 37, "y": 528.3, "w": 1104, "h": 61.6 }, { "n": 5, "x": 37, "y": 591.9, "w": 1104, "h": 51.8 }, { "n": 6, "x": 37, "y": 646.7, "w": 233, "h": 49.8 }] }, "sc_deck": { "src": "img/sc_deck.webp?v=8be3fb68", "w": 1178, "h": 965, "spots": [{ "n": 1, "x": 849, "y": 6.8, "w": 317, "h": 49.8 }, { "n": 2, "x": 37, "y": 81.6, "w": 1104, "h": 32.8 }, { "n": 3, "x": 37, "y": 172.9, "w": 305.3, "h": 49.8 }, { "n": 4, "x": 354, "y": 269.5, "w": 224, "h": 103.1 }] }, "sc_deck2": { "src": "img/sc_deck2.webp?v=8292b6ad", "w": 1178, "h": 965, "spots": [{ "n": 1, "x": 37, "y": 94.2, "w": 276, "h": 125.9 }, { "n": 2, "x": 37, "y": 389.5, "w": 220.8, "h": 120.6 }, { "n": 3, "x": 12, "y": 233.1, "w": 1154, "h": 298 }, { "n": 4, "x": 12, "y": 523.1, "w": 1154, "h": 191.2 }] }, "sc_db": { "src": "img/sc_db.webp?v=2a578eb7", "w": 1178, "h": 870, "spots": [{ "n": 1, "x": 12, "y": 4, "w": 1154, "h": 207.6 }, { "n": 2, "x": 37, "y": 384.8, "w": 582, "h": 51 }, { "n": 3, "x": 38, "y": 508.1, "w": 415.9, "h": 64.5 }, { "n": 4, "x": 1034, "y": 519.4, "w": 94, "h": 42 }, { "n": 5, "x": 809, "y": 142.6, "w": 72.7, "h": 48 }, { "n": 6, "x": 14, "y": 213.6, "w": 1150, "h": 54.8 }] }, "sc_cn": { "src": "img/sc_cn.webp?v=ee61c1cd", "w": 920, "h": 630.2, "spots": [{ "n": 1, "x": 14, "y": 37.9, "w": 893, "h": 59 }, { "n": 2, "x": 14, "y": 100.9, "w": 893, "h": 86.3 }, { "n": 3, "x": 14, "y": 221, "w": 893, "h": 44.1 }, { "n": 4, "x": 14, "y": 292.9, "w": 893, "h": 127 }, { "n": 5, "x": 14, "y": 463.4, "w": 893, "h": 32 }, { "n": 6, "x": 14, "y": 501.4, "w": 166, "h": 49.8 }] }, "sc_cnst": { "src": "img/sc_cnst.webp?v=f051fc74", "w": 1178, "h": 300, "spots": [{ "n": 1, "x": 583.2, "y": 109, "w": 397, "h": 27.4 }, { "n": 2, "x": 998, "y": 101.7, "w": 130, "h": 42 }, { "n": 3, "x": 583.2, "y": 165.5, "w": 397, "h": 27.4 }] }, "sc_b30": { "src": "img/sc_b30.webp?v=a2731489", "w": 1178, "h": 1100, "spots": [{ "n": 1, "x": 12, "y": 60.6, "w": 1154, "h": 61.4 }, { "n": 2, "x": 37, "y": 230.9, "w": 169, "h": 49.8 }, { "n": 3, "x": 204, "y": 230.9, "w": 306.1, "h": 49.8 }, { "n": 4, "x": 508.1, "y": 230.9, "w": 106, "h": 49.8 }, { "n": 5, "x": 37, "y": 282.7, "w": 1104, "h": 40.1 }, { "n": 6, "x": 37, "y": 364.8, "w": 1104, "h": 53.5 }, { "n": 7, "x": 1018.7, "y": 366.6, "w": 122.3, "h": 49.8 }, { "n": 8, "x": 38, "y": 536.8, "w": 1102, "h": 86.5 }, { "n": 9, "x": 37, "y": 324.8, "w": 1104, "h": 40 }] }, "sc_b30d": { "src": "img/sc_b30d.webp?v=72ac1977", "w": 720, "h": 982.9, "spots": [{ "n": 1, "x": 51, "y": 11, "w": 566, "h": 188.8 }, { "n": 2, "x": 14, "y": 201.8, "w": 693, "h": 51 }, { "n": 3, "x": 494, "y": 203.3, "w": 103.2, "h": 48 }, { "n": 4, "x": 14, "y": 256.8, "w": 693, "h": 47.8 }, { "n": 5, "x": -4, "y": -4, "w": 728, "h": 1208 }, { "n": 6, "x": 14, "y": 915.2, "w": 574.1, "h": 49.8 }] }, "sc_b30log": { "src": "img/sc_b30log.webp?v=14780a2c", "w": 720, "h": 732.4, "spots": [{ "n": 1, "x": 25, "y": 317.6, "w": 671, "h": 55.5 }, { "n": 2, "x": 25, "y": 371.1, "w": 671, "h": 80 }, { "n": 3, "x": 590, "y": 459.1, "w": 106, "h": 49.8 }, { "n": 4, "x": 14, "y": 519.9, "w": 693, "h": 194.6 }] }, "sc_deal": { "src": "img/sc_deal.webp?v=581ce919", "w": 1178, "h": 1150, "spots": [{ "n": 1, "x": 461.8, "y": 6.8, "w": 169.4, "h": 49.8 }, { "n": 2, "x": 588, "y": 60.6, "w": 578, "h": 61.4 }, { "n": 3, "x": 279.7, "y": 147, "w": 190.7, "h": 48 }, { "n": 4, "x": 694, "y": 159.2, "w": 447, "h": 51 }, { "n": 5, "x": 38, "y": 340.8, "w": 1102, "h": 87.8 }, { "n": 6, "x": 12, "y": 641.5, "w": 1154, "h": 245.6 }, { "n": 7, "x": 1000, "y": 6.8, "w": 166, "h": 49.8 }] }, "sc_dealform": { "src": "img/sc_dealform.webp?v=1d121c7c", "w": 920, "h": 1298.3, "spots": [{ "n": 1, "x": 14, "y": 96.9, "w": 893, "h": 239 }, { "n": 2, "x": 14, "y": 725, "w": 893, "h": 85.8 }, { "n": 3, "x": 14, "y": 882.9, "w": 893, "h": 153.1 }, { "n": 4, "x": 14, "y": 1230.5, "w": 106, "h": 49.8 }] }, "sc_fbc": { "src": "img/sc_fbc.webp?v=f7a2b9d4", "w": 720, "h": 1069.5, "spots": [{ "n": 1, "x": 27, "y": 565.8, "w": 667, "h": 48 }, { "n": 2, "x": 14, "y": 768.8, "w": 693, "h": 282.7 }, { "n": 3, "x": 27, "y": 837.1, "w": 667, "h": 70.2 }, { "n": 4, "x": 558, "y": 990.8, "w": 136, "h": 49.8 }] }, "sc_ship": { "src": "img/sc_ship.webp?v=448318bb", "w": 1178, "h": 1500, "spots": [{ "n": 1, "x": 65.7, "y": 80, "w": 189.8, "h": 48 }, { "n": 2, "x": 12, "y": 146, "w": 1154, "h": 370.3 }, { "n": 7, "x": 173, "y": 293.8, "w": 205.3, "h": 29.5 }, { "n": 3, "x": 73, "y": 849.1, "w": 1066, "h": 160.5 }, { "n": 4, "x": 54, "y": 1675.2, "w": 1087, "h": 249.7 }, { "n": 5, "x": 37, "y": 1017.1, "w": 232.5, "h": 49.8 }, { "n": 6, "x": 37, "y": 1283.6, "w": 1104, "h": 46.3 }] }, "sc_ship4": { "src": "img/sc_ship4.webp?v=c47dd85b", "w": 1178, "h": 740.5, "spots": [{ "n": 1, "x": 67, "y": 402.7, "w": 530.5, "h": 229.8 }, { "n": 2, "x": 67, "y": 632.5, "w": 338, "h": 48 }] }, "sc_legal": { "src": "img/sc_legal.webp?v=9e45ae30", "w": 1178, "h": 965, "spots": [{ "n": 1, "x": 12, "y": 60.4, "w": 1154, "h": 329.9 }, { "n": 2, "x": 12, "y": 393.3, "w": 573, "h": 265.4 }, { "n": 3, "x": 618, "y": 476.5, "w": 523, "h": 124 }, { "n": 4, "x": 12, "y": 705.8, "w": 1154, "h": 33.5 }] }, "sc_docs": { "src": "img/sc_docs.webp?v=7e7db2b2", "w": 1178, "h": 1000, "spots": [{ "n": 1, "x": 743, "y": 6.8, "w": 136, "h": 49.8 }, { "n": 2, "x": 879, "y": 6.8, "w": 136, "h": 49.8 }, { "n": 3, "x": 1015, "y": 6.8, "w": 151, "h": 49.8 }, { "n": 4, "x": 37, "y": 133.3, "w": 1104, "h": 57.8 }, { "n": 5, "x": 37, "y": 193.1, "w": 1104, "h": 53.5 }, { "n": 6, "x": 38, "y": 460.1, "w": 1102, "h": 67 }, { "n": 7, "x": 825, "y": 81.6, "w": 316, "h": 49.8 }] }, "sc_docreq": { "src": "img/sc_docreq.webp?v=8a6c0aa8", "w": 640, "h": 547.2, "spots": [{ "n": 1, "x": 14, "y": 124.4, "w": 613, "h": 53.5 }, { "n": 2, "x": 74, "y": 177.9, "w": 340, "h": 109 }, { "n": 3, "x": 14, "y": 312.7, "w": 613, "h": 111.2 }, { "n": 4, "x": 14, "y": 479.4, "w": 106, "h": 49.8 }] }, "sc_docreq2": { "src": "img/sc_docreq2.webp?v=ffd2363e", "w": 1178, "h": 760, "spots": [{ "n": 1, "x": 49, "y": 141.3, "w": 1080, "h": 33.5 }, { "n": 2, "x": 49, "y": 172.8, "w": 1080, "h": 14 }, { "n": 3, "x": 49, "y": 228.8, "w": 1080, "h": 32.4 }, { "n": 4, "x": 124.8, "y": 184.8, "w": 206, "h": 48 }, { "n": 5, "x": 49, "y": 303.2, "w": 103.2, "h": 48 }] }, "sc_msg": { "src": "img/sc_msg.webp?v=f8a32e73", "w": 1170, "h": 1025.2, "spots": [{ "n": 1, "x": 33, "y": 64.7, "w": 458.6, "h": 49.8 }, { "n": 2, "x": 46, "y": 353.5, "w": 1072, "h": 48.8 }, { "n": 3, "x": 891.3, "y": 662.5, "w": 226.7, "h": 40 }, { "n": 4, "x": 35, "y": 758.1, "w": 1100, "h": 47 }, { "n": 5, "x": 35, "y": 797.1, "w": 1100, "h": 61 }, { "n": 6, "x": 1052, "y": 803.1, "w": 73, "h": 48 }, { "n": 7, "x": 1049, "y": 976.5, "w": 76, "h": 49.8 }] }, "sc_team": { "src": "img/sc_team.webp?v=30bcd983", "w": 1178, "h": 965, "spots": [{ "n": 1, "x": 996.6, "y": 11.3, "w": 169.4, "h": 49.8 }, { "n": 2, "x": 925, "y": 86.1, "w": 216, "h": 32.8 }, { "n": 3, "x": 37, "y": 230.5, "w": 1104, "h": 340.9 }, { "n": 4, "x": 143, "y": 122.9, "w": 122.9, "h": 48.1 }, { "n": 5, "x": 12, "y": 584.4, "w": 1154, "h": 105.2 }] }, "sc_invite": { "src": "img/sc_invite.webp?v=957d8dae", "w": 440, "h": 900.3, "spots": [{ "n": 1, "x": 14, "y": 198.3, "w": 413, "h": 53.5 }, { "n": 2, "x": 14, "y": 354.9, "w": 413, "h": 53.5 }, { "n": 3, "x": 54.7, "y": 451.2, "w": 361.3, "h": 147.5 }, { "n": 4, "x": 59, "y": 650.5, "w": 218, "h": 167 }, { "n": 5, "x": 14, "y": 832.5, "w": 106, "h": 49.8 }] }, "sc_task": { "src": "img/sc_task.webp?v=88038dad", "w": 1178, "h": 965, "spots": [{ "n": 1, "x": 754.1, "y": 6.8, "w": 124.4, "h": 49.8 }, { "n": 2, "x": 878.5, "y": 6.8, "w": 136, "h": 49.8 }, { "n": 3, "x": 1014.5, "y": 7.7, "w": 151.5, "h": 48 }, { "n": 4, "x": 12, "y": 60.6, "w": 573, "h": 170 }, { "n": 5, "x": 170.7, "y": 396, "w": 159.6, "h": 49.8 }, { "n": 6, "x": 38, "y": 550.4, "w": 1102, "h": 70.8 }] }, "sc_taskd": { "src": "img/sc_taskd.webp?v=59f79026", "w": 720, "h": 1042.8, "spots": [{ "n": 1, "x": 14, "y": 71.4, "w": 693, "h": 49.8 }, { "n": 2, "x": 361.5, "y": 201.8, "w": 345.5, "h": 159.2 }, { "n": 3, "x": 120, "y": 558.2, "w": 121, "h": 49.8 }, { "n": 4, "x": 14, "y": 613.9, "w": 693, "h": 185.9 }, { "n": 5, "x": 14, "y": 808.7, "w": 693, "h": 216 }] }, "sc_tl": { "src": "img/sc_tl.webp?v=3ea87885", "w": 585, "h": 627.6, "spots": [{ "n": 1, "x": 6, "y": 6, "w": 573, "h": 615.6 }] }, "sc_memo": { "src": "img/sc_memo.webp?v=b35aca0d", "w": 1178, "h": 1400, "spots": [{ "n": 1, "x": 1026.6, "y": 6.8, "w": 139.4, "h": 49.8 }, { "n": 2, "x": 12, "y": 60.6, "w": 1154, "h": 82.3 }, { "n": 3, "x": 37, "y": 273.9, "w": 435.6, "h": 48 }, { "n": 4, "x": 618, "y": 505.3, "w": 380, "h": 48 }, { "n": 5, "x": 618, "y": 567.3, "w": 241.9, "h": 32 }, { "n": 6, "x": 841, "y": 637.6, "w": 203, "h": 49.8 }, { "n": 7, "x": 618, "y": 689.3, "w": 523, "h": 476.9 }] }, "sc_mtg": { "src": "img/sc_mtg.webp?v=604c72c8", "w": 640, "h": 557.1, "spots": [{ "n": 1, "x": 14, "y": 124, "w": 613, "h": 53.5 }, { "n": 2, "x": 14, "y": 202.6, "w": 613, "h": 55.5 }, { "n": 3, "x": 14, "y": 283.2, "w": 613, "h": 53.5 }, { "n": 4, "x": 14, "y": 361.8, "w": 613, "h": 77.5 }, { "n": 5, "x": 14, "y": 453.3, "w": 613, "h": 32 }, { "n": 6, "x": 14, "y": 489.3, "w": 106, "h": 49.8 }] }, "sc_dash": { "src": "img/sc_dash.webp?v=8ceb5319", "w": 1178, "h": 1450, "spots": [{ "n": 1, "x": 457.5, "y": 10, "w": 421, "h": 49.8 }, { "n": 6, "x": 12, "y": 63.8, "w": 1154, "h": 202.2 }, { "n": 3, "x": 12, "y": 1055, "w": 1154, "h": 76.3 }, { "n": 4, "x": 12, "y": 1133.4, "w": 1154, "h": 243 }, { "n": 5, "x": 1014.5, "y": 10.9, "w": 151.5, "h": 48 }, { "n": 8, "x": 12, "y": 604, "w": 1154, "h": 443 }, { "n": 9, "x": 12, "y": 257.9, "w": 1154, "h": 208.6 }] }, "sc_dash2": { "src": "img/sc_dash2.webp?v=e21d07ad", "w": 1178, "h": 760, "spots": [{ "n": 1, "x": 29, "y": 16, "w": 1120, "h": 97.1 }, { "n": 2, "x": 12, "y": 234.1, "w": 230, "h": 236.9 }] }, "sc_rep": { "src": "img/sc_rep.webp?v=e276ffd6", "w": 940, "h": 1190.5, "spots": [{ "n": 1, "x": 14, "y": 71.4, "w": 913, "h": 48 }, { "n": 2, "x": 14, "y": 150.9, "w": 913, "h": 142.6 }, { "n": 3, "x": 14, "y": 327, "w": 166, "h": 49.8 }, { "n": 4, "x": 178, "y": 327, "w": 274.8, "h": 49.8 }, { "n": 5, "x": 450.8, "y": 327, "w": 136, "h": 49.8 }, { "n": 6, "x": 14, "y": 409, "w": 913, "h": 348 }] }, "sc_week": { "src": "img/sc_week.webp?v=006a36fd", "w": 760, "h": 702.7, "spots": [{ "n": 1, "x": 14, "y": 96.9, "w": 733, "h": 528 }, { "n": 2, "x": 14, "y": 634.9, "w": 110.4, "h": 49.8 }, { "n": 3, "x": 124.4, "y": 634.9, "w": 181, "h": 49.8 }] }, "sc_inbox": { "src": "img/sc_inbox.webp?v=be801360", "w": 1178, "h": 1194.6, "spots": [{ "n": 1, "x": 37, "y": 330.7, "w": 362.7, "h": 788.9 }, { "n": 2, "x": 407.7, "y": 330.7, "w": 362.7, "h": 227.7 }, { "n": 3, "x": 778.3, "y": 330.7, "w": 362.7, "h": 227.7 }, { "n": 4, "x": 37, "y": 275.2, "w": 1104, "h": 53.5 }, { "n": 5, "x": 12, "y": 60.4, "w": 1154, "h": 189.8 }] }, "sc_aq": { "src": "img/sc_aq.webp?v=1fc4630c", "w": 820, "h": 860, "spots": [{ "n": 1, "x": 42, "y": 241.9, "w": 736, "h": 70.3 }, { "n": 2, "x": 42, "y": 346, "w": 736, "h": 49.8 }, { "n": 3, "x": 573.1, "y": 121.5, "w": 219.9, "h": 49.8 }] }, "sc_ckmail": { "src": "img/sc_ckmail.webp?v=9facff59", "w": 440, "h": 1077.8, "spots": [{ "n": 1, "x": 14, "y": 875.7, "w": 413, "h": 97.5 }] }, "sc_ck": { "src": "img/sc_ck.webp?v=d1f47bac", "w": 560, "h": 839.5, "spots": [{ "n": 1, "x": 14, "y": 69, "w": 532, "h": 31.8 }, { "n": 2, "x": 14, "y": 157.8, "w": 532, "h": 129.6 }, { "n": 3, "x": 14, "y": 287.4, "w": 532, "h": 129.6 }, { "n": 4, "x": 14, "y": 650.7, "w": 532, "h": 104.1 }] }, "sc_rqform": { "src": "img/sc_rqform.webp?v=006c6d5b", "w": 820, "h": 860, "spots": [{ "n": 1, "x": 14, "y": 69, "w": 792, "h": 87.7 }, { "n": 2, "x": 14, "y": 346.5, "w": 792, "h": 53.5 }, { "n": 3, "x": 27, "y": 435.8, "w": 766, "h": 152 }, { "n": 4, "x": 670, "y": 802.3, "w": 136, "h": 49.8 }] }, "sc_rqpage": { "src": "img/sc_rqpage.webp?v=4216dde6", "w": 820, "h": 860, "spots": [{ "n": 1, "x": 89, "y": 213.4, "w": 642, "h": 30 }, { "n": 2, "x": 89, "y": 573.1, "w": 642, "h": 116.1 }, { "n": 3, "x": 67, "y": 731.9, "w": 686, "h": 132.1 }] }, "sc_rq": { "src": "img/sc_rq.webp?v=75886bfc", "w": 1178, "h": 329.3, "spots": [{ "n": 1, "x": 37, "y": 139.1, "w": 1104, "h": 78.6 }, { "n": 2, "x": 1031, "y": 223.7, "w": 106, "h": 49.8 }] }, "sc_gl": { "src": "img/sc_gl.webp?v=511610a4", "w": 1178, "h": 709.6, "spots": [{ "n": 1, "x": 37, "y": 107.5, "w": 1104, "h": 51.5 }, { "n": 2, "x": 37, "y": 185.1, "w": 662.4, "h": 51.5 }, { "n": 3, "x": 699.4, "y": 159, "w": 220.8, "h": 77.6 }, { "n": 4, "x": 37, "y": 295.3, "w": 1104, "h": 33.5 }, { "n": 5, "x": 37, "y": 368.6, "w": 1104, "h": 300 }] }, "sc_trash": { "src": "img/sc_trash.webp?v=8c3f1104", "w": 1178, "h": 308.2, "spots": [{ "n": 1, "x": 910, "y": 150.8, "w": 106, "h": 49.8 }, { "n": 2, "x": 137.1, "y": 81.4, "w": 119.1, "h": 52.5 }, { "n": 3, "x": 252.2, "y": 81.4, "w": 134.1, "h": 52.5 }, { "n": 4, "x": 1016, "y": 150.8, "w": 121, "h": 49.8 }] }, "sc_ai": { "src": "img/sc_ai.webp?v=e5f0f199", "w": 1178, "h": 991.7, "spots": [{ "n": 1, "x": 994.5, "y": 12, "w": 146.5, "h": 32.8 }, { "n": 2, "x": 39, "y": 283.8, "w": 1100, "h": 336.3 }, { "n": 3, "x": 86, "y": 496.8, "w": 882.5, "h": 37.8 }, { "n": 4, "x": 86, "y": 534.6, "w": 882.5, "h": 47.9 }, { "n": 5, "x": 37, "y": 627.1, "w": 1104, "h": 134.9 }, { "n": 6, "x": 39, "y": 917, "w": 1100, "h": 62.8 }, { "n": 7, "x": 949.4, "y": 51.8, "w": 180.6, "h": 48 }] }, "sc_aihow": { "src": "img/sc_aihow.webp?v=767ef825", "w": 1178, "h": 889.1, "spots": [{ "n": 1, "x": 73, "y": 224.8, "w": 225.5, "h": 56 }, { "n": 2, "x": 86, "y": 327.8, "w": 1040, "h": 175.3 }, { "n": 3, "x": 86, "y": 524.8, "w": 273.7, "h": 44.7 }, { "n": 4, "x": 86, "y": 578.5, "w": 1040, "h": 69.3 }, { "n": 5, "x": 224.2, "y": 828.8, "w": 177.3, "h": 46.3 }] }, "sc_ai2": { "src": "img/sc_ai2.webp?v=eca1e309", "w": 1178, "h": 906.6, "spots": [{ "n": 1, "x": 652.4, "y": 371.8, "w": 31, "h": 26 }, { "n": 2, "x": 86, "y": 573.9, "w": 150.6, "h": 38 }, { "n": 3, "x": 86, "y": 714.4, "w": 1040, "h": 32.5 }] }, "sc_grow": { "src": "img/sc_grow.webp?v=aa6fa5b4", "w": 1178, "h": 700, "spots": [{ "n": 1, "x": 62, "y": 101.4, "w": 496, "h": 409.5 }, { "n": 2, "x": 62, "y": 525, "w": 496, "h": 94.1 }, { "n": 3, "x": 62, "y": 429.4, "w": 496, "h": 81.5 }, { "n": 4, "x": 595, "y": 76.4, "w": 546, "h": 35.2 }, { "n": 5, "x": 12, "y": -9, "w": 1154, "h": 865 }] } };
     slides.forEach((s, i) => { const pg = s.querySelector('.s-foot .pg'); if (pg)
         pg.innerHTML = pad(i + 1) + '<i>/</i>' + pad(N); });
     const W = {};
